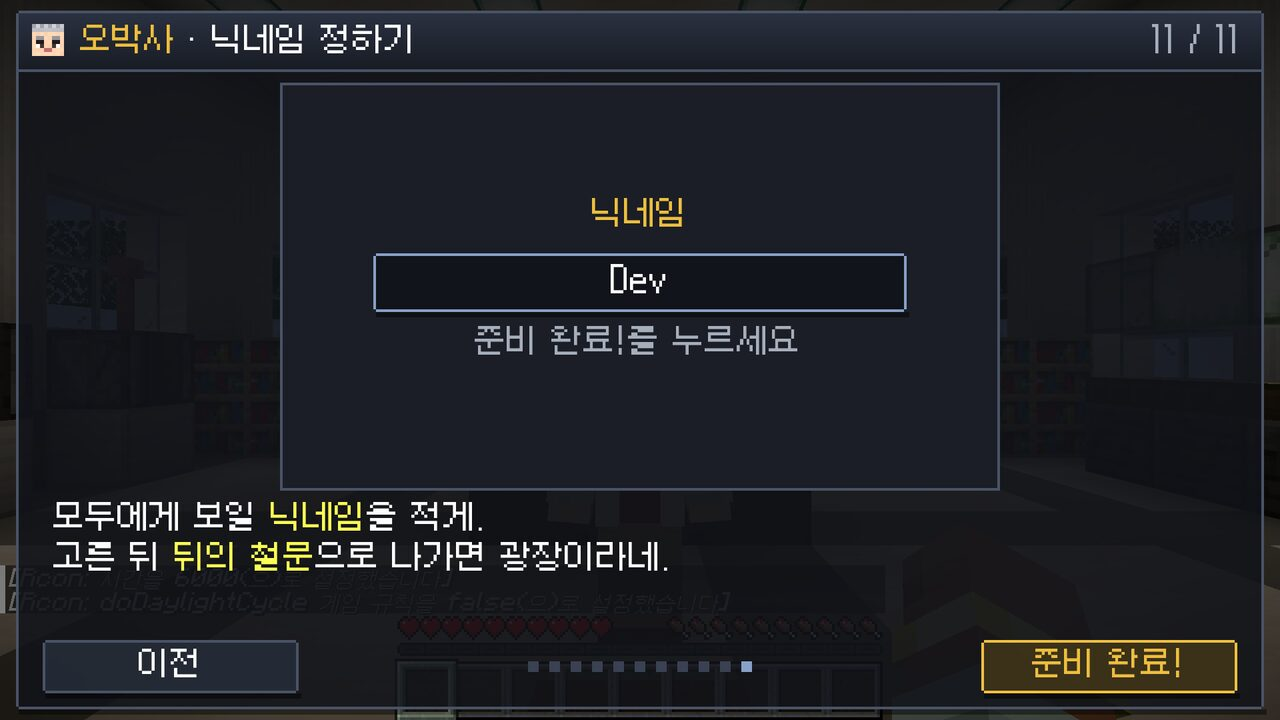
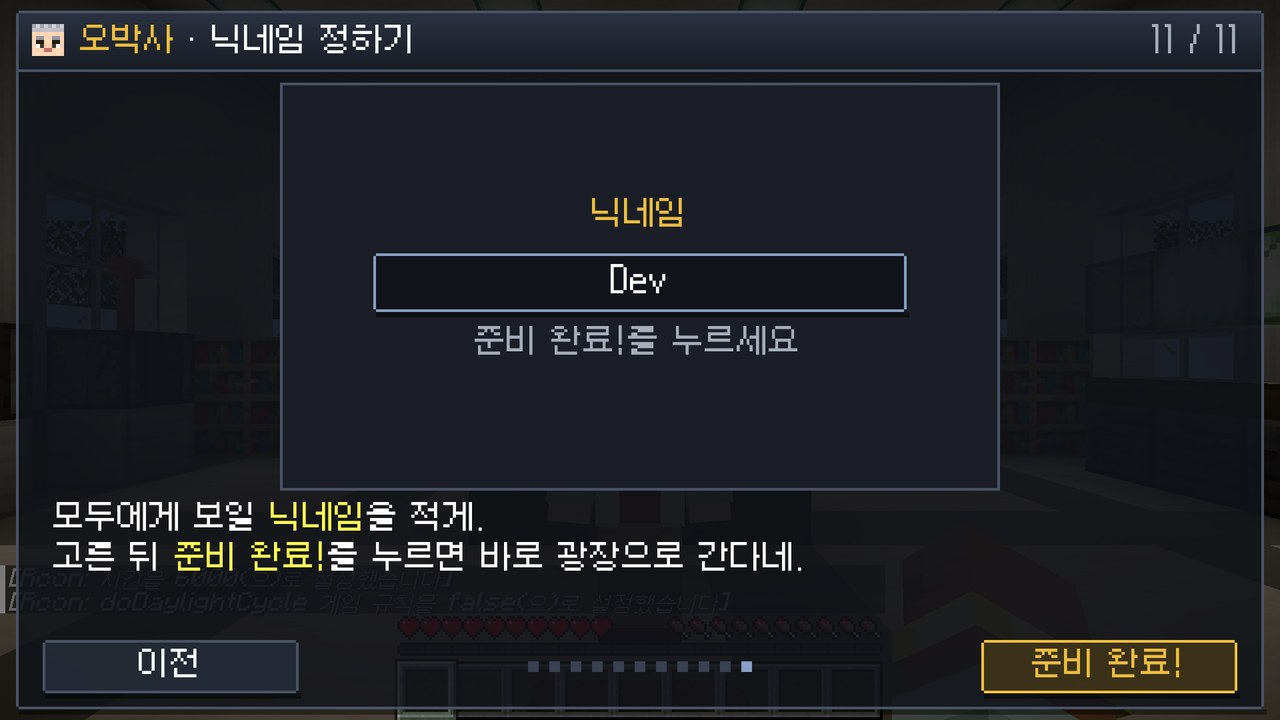
다시 하는 튜토리얼 닉네임 쪽 안내 문구, 문서 사진
Claude-Session: https://claude.ai/code/session_01KfYadX4RQW6s5szTxe11BK

Changed region(s): [[0.125, 0.7333, 0.625, 0.7944]]

diff --git a/mod/src/client/java/com/pokeserver/client/TutorialScreen.java b/mod/src/client/java/com/pokeserver/client/TutorialScreen.java
@@ -54,7 +54,10 @@ public class TutorialScreen extends Screen {
     private int px() { return (vw() - pw()) / 2; }
     private int py() { return (vh() - ph()) / 2; }
     private int btnY() { return py() + ph() - 26; }
-    private List<String> lines() { return Theme.wrap(font, PAGES.get(page).text(), pw() - 28, MAX_LINES); }
+    private List<String> lines() {
+        String t = nickPage() && locked ? "닉네임은 이미 정했네. §e준비 완료!§r를 누르면 바로 광장으로 간다네." : PAGES.get(page).text();
+        return Theme.wrap(font, t, pw() - 28, MAX_LINES);
+    }
     private int imgH() {
         int textTop = btnY() - 6 - MAX_LINES * LINE;
         return Math.min((pw() - 24) * 9 / 16, textTop - 6 - (py() + 28));

diff --git a/docs/UI정리.md b/docs/UI정리.md
@@ -76,6 +76,8 @@
 
 ### 마지막 쪽: 닉네임 정하기
 ![닉네임](ui/17_nick.jpg)
+![다시 하는 튜토리얼](ui/17b_nick_locked.jpg)
+![튜토리얼 끝](ui/17c_after_tutorial.jpg)
 - 키보드로 입력 (한글·영어·숫자·_ 2~12글자). 틀리면 빨간 테두리·안내.
 - 준비 완료! → 보상 → **바로 광장 마을로 이동** → 2초 뒤 스타팅 포켓몬 고르기 창.
 - 닉네임은 **첫 튜토리얼에서만** 정함. 튜토리얼을 다시 하면 이 쪽은 지금 닉네임만 보여 주고 바꿀 수 없음 ("닉네임은 첫 튜토리얼에서만 정할 수 있어요").
